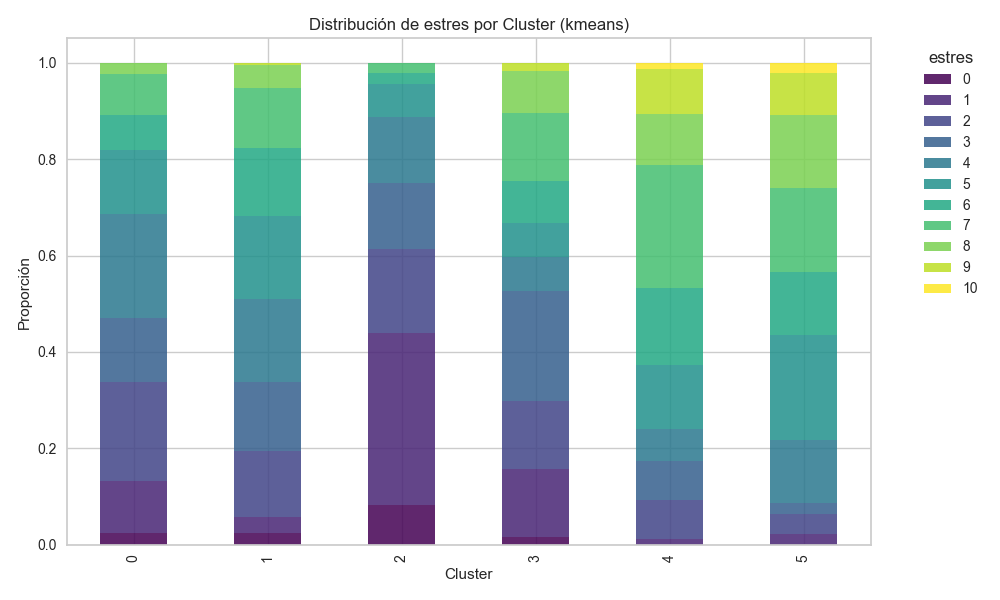
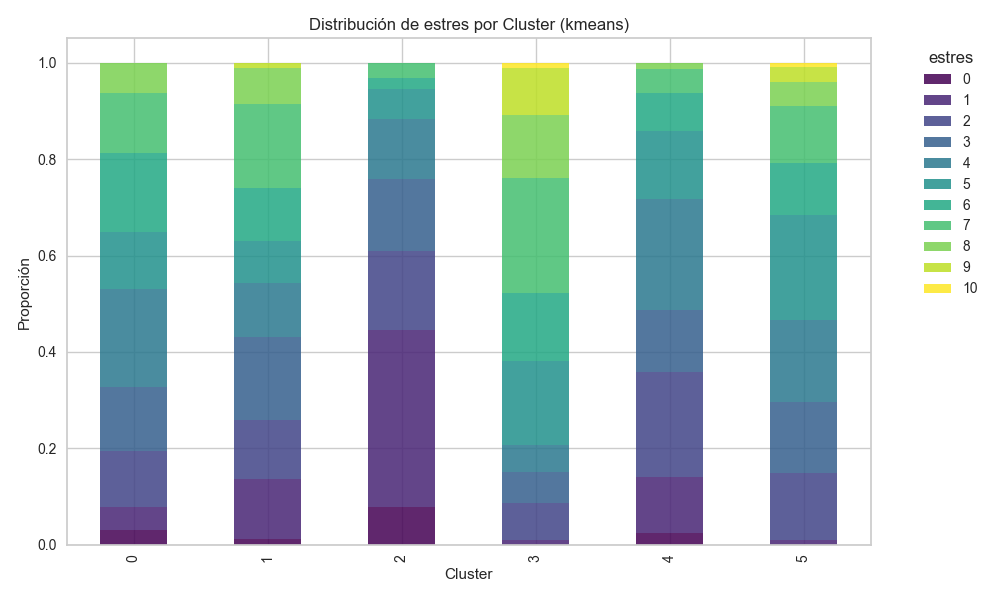
clustering agrupat

diff --git a/scripts/06_main_clustering.py b/scripts/06_main_clustering.py
@@ -12,10 +12,10 @@ import os
 
 # VARIABLES CONSTANTS
 PATH_DATASET = "data/cleaned_dataset.pkl"  # Dataset natejat
-ALGORITHMS = ['kmeans', 'spectral', 'agglo', 'gmm']  # Algoritmes de clústering a testejar
+ALGORITHMS = ['kmeans', 'agglo', 'gmm']  # Algoritmes de clústering a testejar
 TARGET = 'estres'
 
-AGRUPATED = True
+AGRUPATED = False
 
 current_path = os.getcwd() # Obtener la ruta actual
 
@@ -31,7 +31,9 @@ PATH_FILENAME = os.path.join(current_path, "visualizations", "clustering", "4th_
 # VARIABLES_RELLEVANTS = ['dayoftheweek', 'bienestar', 'energia', 'ordenador', 'alcohol', 'otrofactor', 'no2bcn_24h', 'no2gps_24h', 'covid_work']
 # PATH_FILENAME = os.path.join(current_path, "visualizations", "clustering", "9th_important_features")
 
-ALGORITHMS = ['kmeans', 'agglo', 'gmm']  # Algoritmes de clústering a testejar: 
+# Les 10 variables més rellevants XGBOOST
+# VARIABLES_RELLEVANTS = ['ordenador', 'otrofactor', 'dayoftheweek','district_gràcia','incidence_cat_physical incidence', 'smoke', 'district_sant andreu', 'bienestar', 'Totaltime']
+# PATH_FILENAME = os.path.join(current_path, "visualizations", "clustering", "10th_important features")
 
 MAX_CLUSTERS = 50
 COMPONENTS = ["Component 1", "Component 2", "Component 3"]
@@ -42,8 +44,10 @@ if __name__=="__main__":
     # 1 i 2. Codificació i escalat
     whole_preprocessed_df = preprocess(PATH_DATASET, TARGET) # Carreguem les dades i les preprocessem
     
+    
     if AGRUPATED: # Agrupar las clases 9 y 10 en una sola clase
-        whole_preprocessed_df = whole_preprocessed_df.replace({10: 9})  # Cambiar clase 10 por 9 en el conjunto de entrenamiento
+        whole_preprocessed_df = whole_preprocessed_df.replace({9: 8})  # Cambiar clase 10 por 9 en el conjunto de entrenamiento
+        whole_preprocessed_df = whole_preprocessed_df.replace({10: 8})  # Cambiar clase 10 por 9 en el conjunto de entrenamiento
 
     preprocessed_df = whole_preprocessed_df.drop(TARGET, axis=1)  # Eliminem la variable a partir de la qual volem fer clústering
 
@@ -58,8 +62,8 @@ if __name__=="__main__":
         model = ClusteringModel(data=preprocessed_df, algorithm=algoritme)
         
         # model.n_clusters=4
-        model.n_clusters=5
-        # model.n_clusters=6
+        # model.n_clusters=5
+        model.n_clusters=6
         best_k = model.n_clusters
         # if algoritme == 'gmm':
         #     best_k = model.gmm_best_k()

diff --git a/scripts/03_data_cleaning.py b/scripts/03_data_cleaning.py
@@ -92,10 +92,12 @@ def codificar_dades_categoriques(dataset, categorical_columns):
 if __name__=="__main__":
     # Cargar datos
     data = pd.read_pickle(PICKLE_PATH)
-
+    print(data.shape)
+    h = input('h')
     # Eliminar columnas innecesarias
     data = data.drop(columns=ESBORRAR, errors='ignore')
-
+    print(data.shape)
+    h = input('h')
     # # Conversión de formatos
     # data['Hour] = pd.to_datetime(data['Houron'], format='%H:%M:%S', errors='coerce')
     # data['Houroff'] = pd.to_datetime(data['Houroff'], format='%H:%M:%S', errors='coerce')
@@ -107,10 +109,12 @@ if __name__=="__main__":
 
     # Paso 1: Tratar valores nulos
     cleaned_dataset = filtrar_valors_null(data, k)
-
+    print(cleaned_dataset.shape)
+    h = input('h')
     # Paso 2: Eliminar duplicados
     cleaned_dataset = eliminar_duplicados(cleaned_dataset)
-
+    print(cleaned_dataset.shape)
+    h = input('h')
     # Paso 3: Convertir tipos de datos
     transform_to_int = ['occurrence_mental', 'occurrence_stroop', 'correct', 'response_duration_ms', 
                         'age_yrs', 'hour_gps', 'sec_noise55_day', 'sec_noise65_day', 'sec_greenblue_day',
@@ -121,14 +125,19 @@ if __name__=="__main__":
                         'district', 'education', 'access_greenbluespaces_300mbuff', 'smoke', 'psycho', 'gender', 
                         'Totaltime_estimated'] 
     cleaned_dataset = convertir_tipus_de_dades(cleaned_dataset, enter=transform_to_int, caracter=transform_to_str)
-
+    print(cleaned_dataset.shape)
+    h = input('h')
     # Paso 4: Normalizar valores categóricos
     cleaned_dataset = estandarditzar_valors_categorics(cleaned_dataset, ['bienestar', 'energia', 'estres', 'sueno'])
+    print(cleaned_dataset.shape)
+    h = input('h')
 
-    # Paso 5: Tratar outliers
-    numeric_columns = cleaned_dataset.select_dtypes(include=['float64', 'int64']).columns.tolist()
-    cleaned_dataset = tractar_outliers(cleaned_dataset, numeric_columns)
-
+    # # Paso 5: Tratar outliers
+    # numeric_columns = cleaned_dataset.select_dtypes(include=['float64', 'int64']).columns.tolist()
+    # cleaned_dataset = tractar_outliers(cleaned_dataset, numeric_columns)
+    # print(cleaned_dataset.shape)
+    # h = input('h')
+    
     # GUARDAR EL DATASET ######################################################
     cleaned_dataset.to_pickle(CLEANED_PICKLE_PATH)
 

diff --git a/scripts/preprocess.py b/scripts/preprocess.py
@@ -67,6 +67,7 @@ def preprocess(CLEANED_DATASET_PATH, TARGET):
     """Li passem el dataset a codificar i escalar i la variable target"""
     # Cargar el dataset
     initial_dataset = pd.read_pickle(CLEANED_DATASET_PATH)
+   
     data = initial_dataset.drop(TARGET, axis=1)
 
     # Seleccionar columnas numéricas
